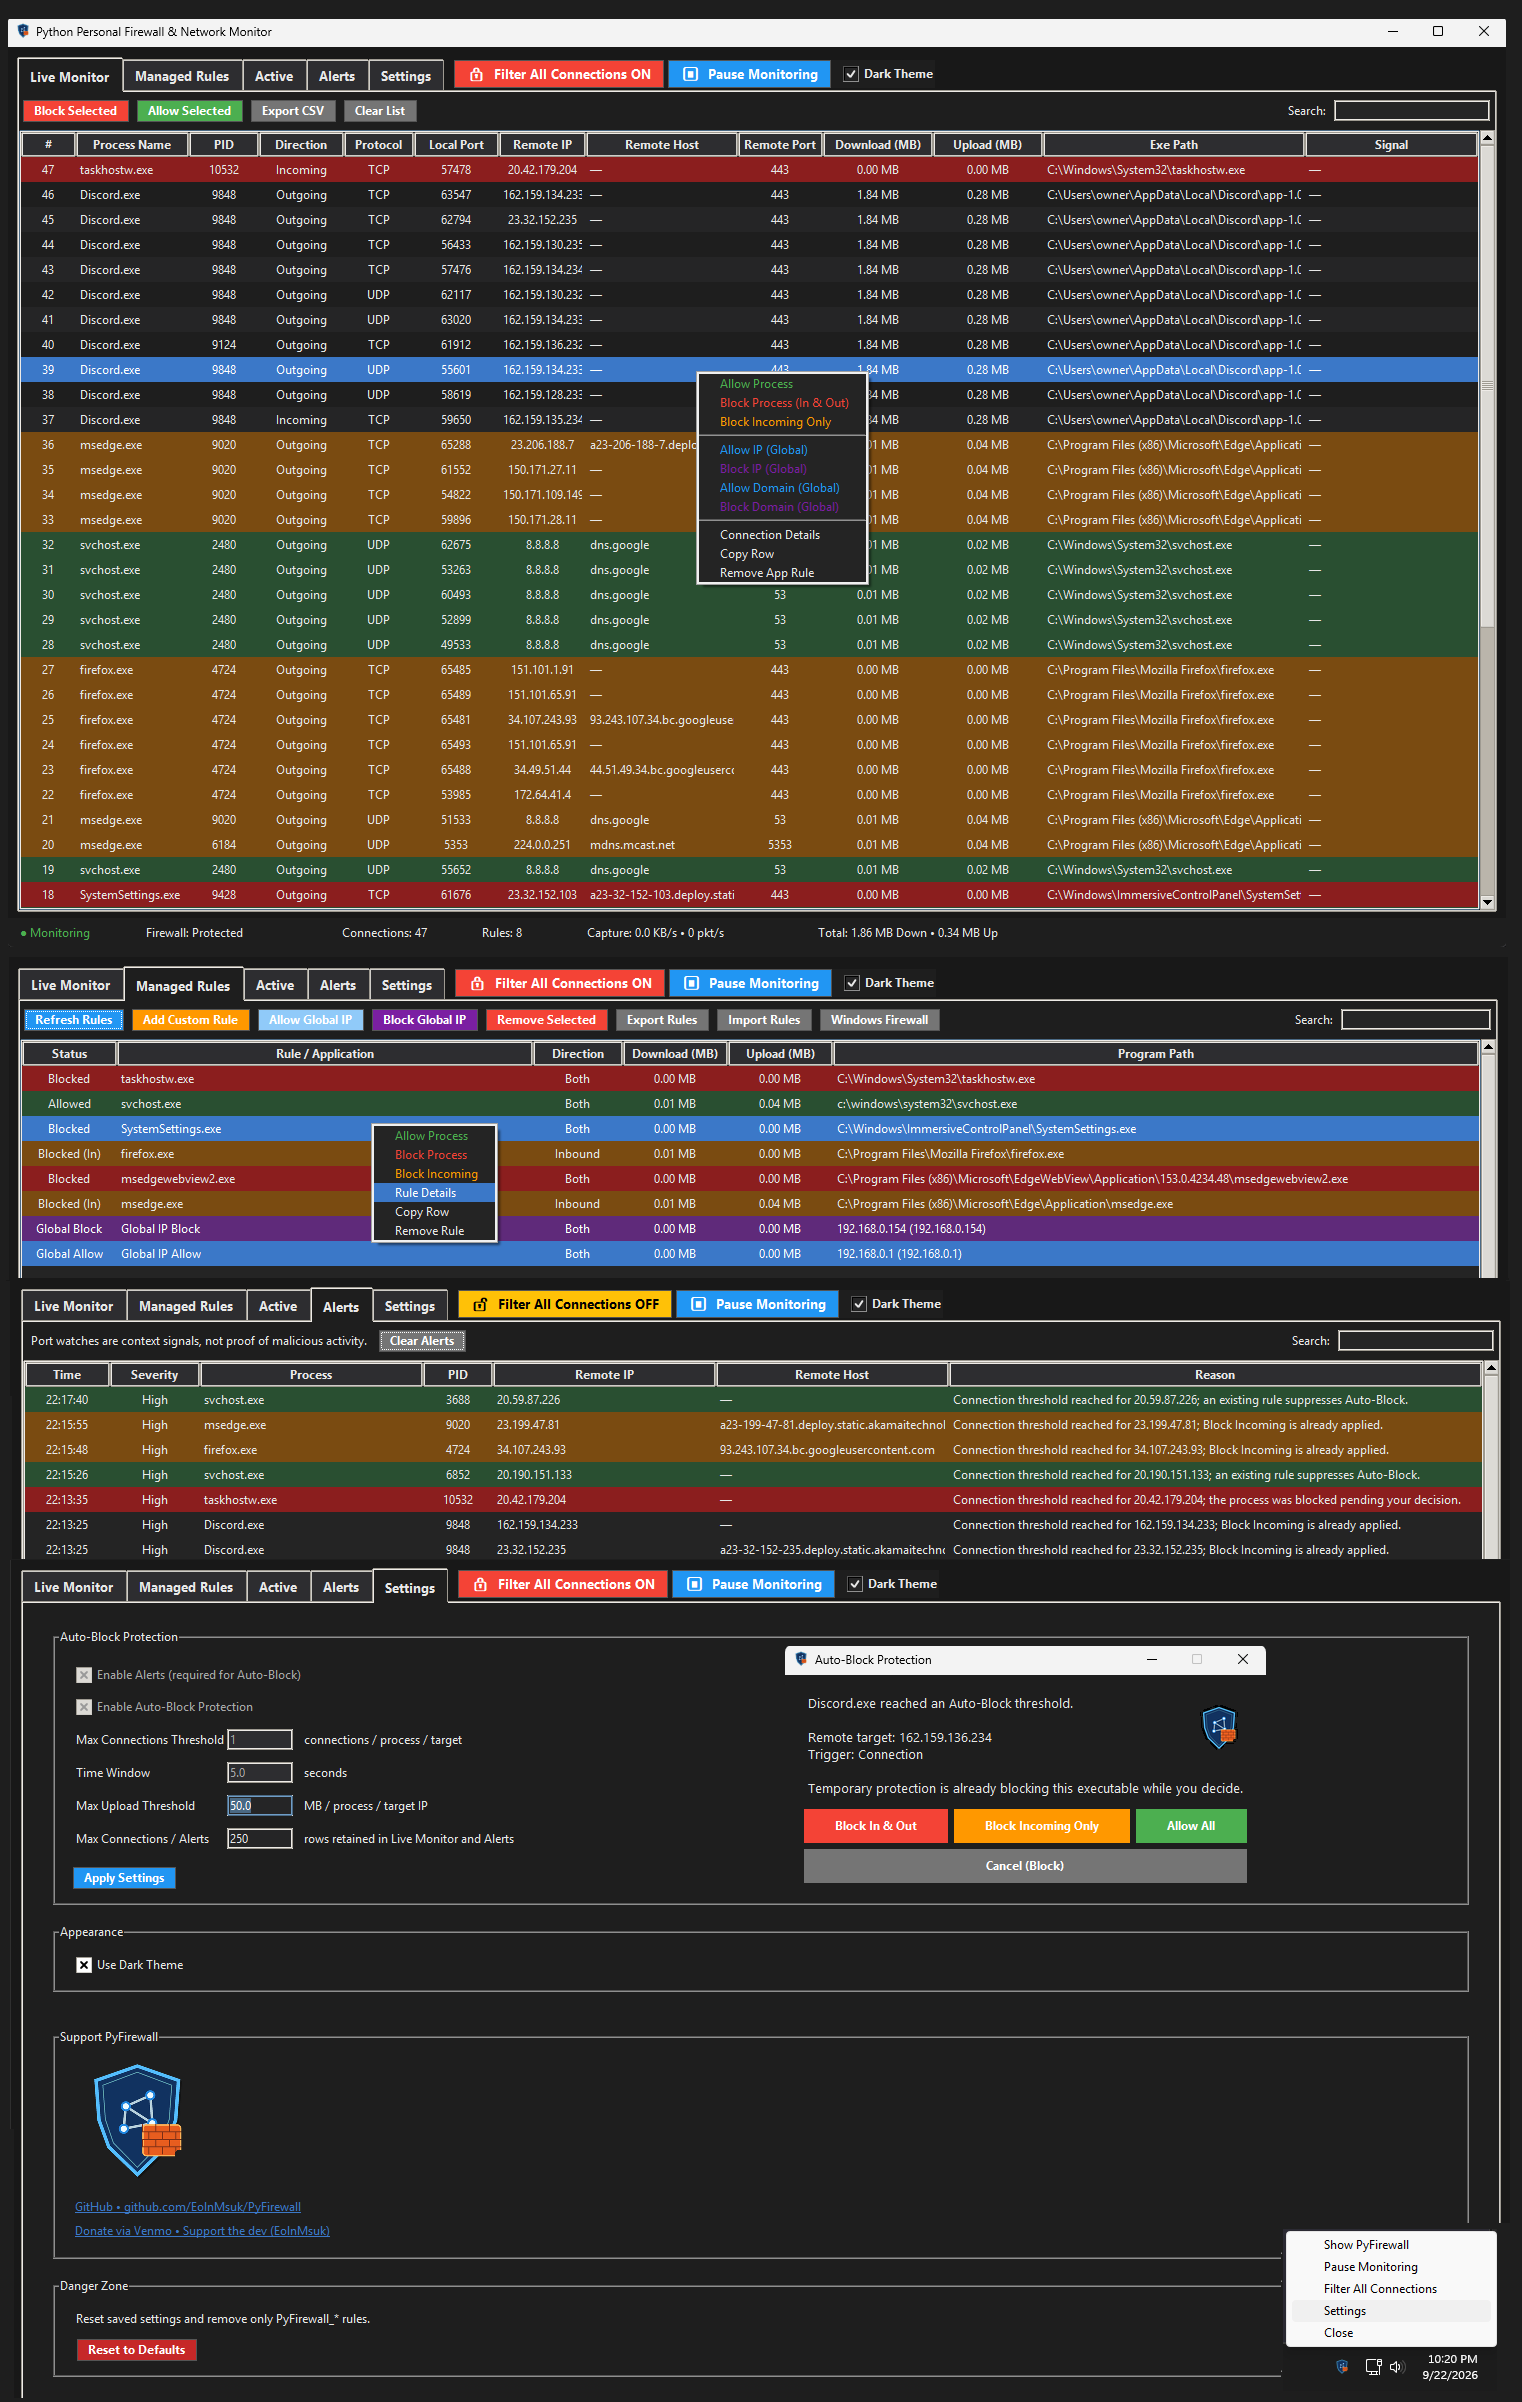
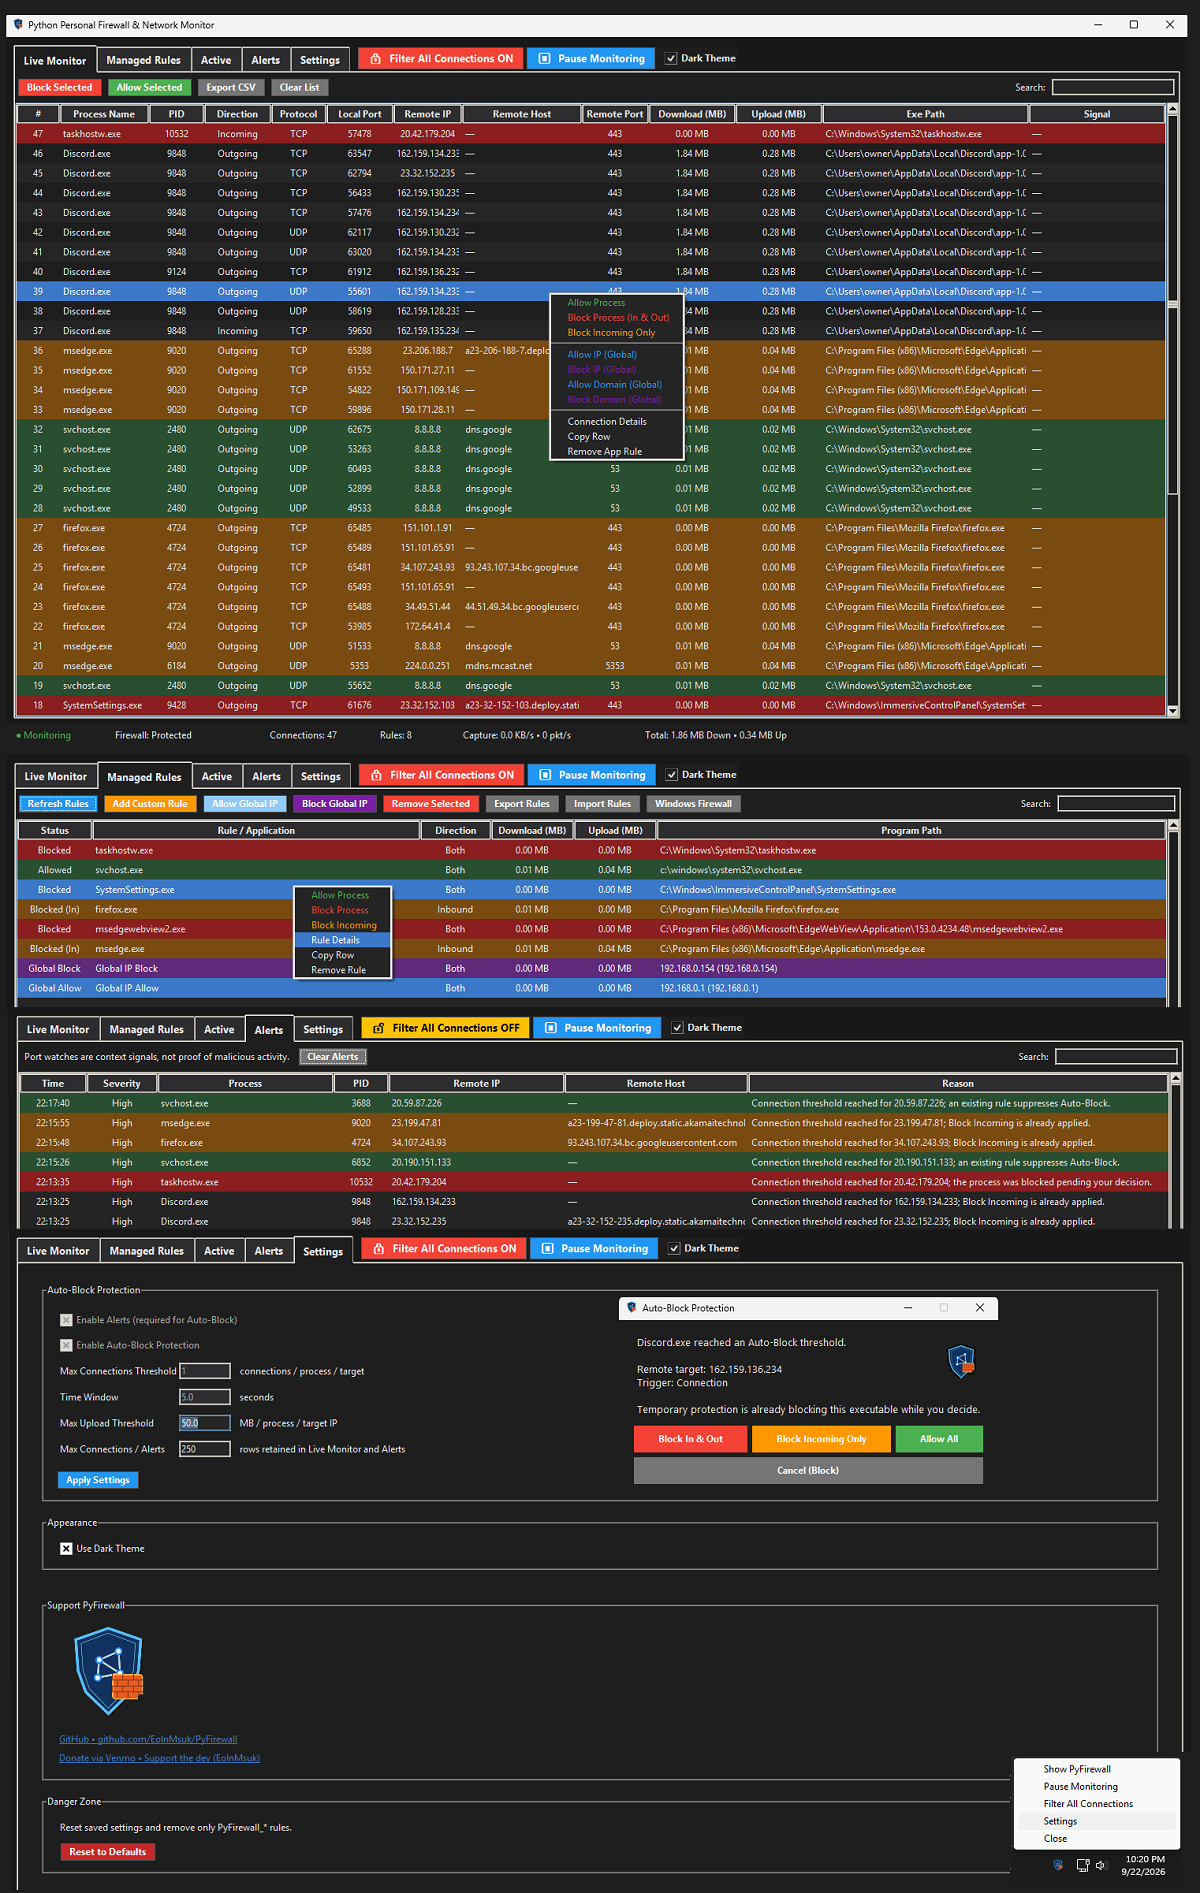
Add files via upload

diff --git a/firewall_monitor.py b/firewall_monitor.py
@@ -219,7 +219,7 @@ class PyFirewallSystemTray:
         _fields_ = [('cbSize', wintypes.DWORD), ('hWnd', wintypes.HWND), ('uID', wintypes.UINT), ('uFlags', wintypes.UINT), ('uCallbackMessage', wintypes.UINT), ('hIcon', wintypes.HICON), ('szTip', wintypes.WCHAR * 128), ('dwState', wintypes.DWORD), ('dwStateMask', wintypes.DWORD), ('szInfo', wintypes.WCHAR * 256), ('uVersion_or_Timeout', wintypes.UINT), ('szInfoTitle', wintypes.WCHAR * 64), ('dwInfoFlags', wintypes.DWORD), ('guidItem', ctypes.c_byte * 16), ('hBalloonIcon', wintypes.HICON)]
     WNDPROC = ctypes.WINFUNCTYPE(ctypes.c_ssize_t, wintypes.HWND, wintypes.UINT, wintypes.WPARAM, wintypes.LPARAM)
 
-    def __init__(self, command_queue, filter_all_enabled=False, is_paused=False):
+    def __init__(self, command_queue, filter_all_enabled=True, is_paused=False):
         self.command_queue = command_queue
         self.state_lock = threading.Lock()
         self.filter_all_enabled = bool(filter_all_enabled)
@@ -499,11 +499,11 @@ class FirewallMonitorApp:
         self._start_dns_workers()
         self.port_process_cache = {}
         self.cache_time = 0.0
-        self.filter_all_enabled = False
+        self.filter_all_enabled = True
         self.filter_all_saved_alerts = None
         self.filter_all_saved_auto_block = None
         self.saved_rate_threshold = DEFAULT_RATE_THRESHOLD
-        self.rate_threshold = DEFAULT_RATE_THRESHOLD
+        self.rate_threshold = 1 if self.filter_all_enabled else DEFAULT_RATE_THRESHOLD
         self.rate_window = DEFAULT_RATE_WINDOW
         self.upload_threshold_mb = DEFAULT_UPLOAD_THRESHOLD_MB
         self.max_connections_alerts = DEFAULT_MAX_CONNECTIONS_ALERTS
@@ -511,7 +511,7 @@ class FirewallMonitorApp:
         self.auto_block_enabled = True
         self.dark_mode = DEFAULT_DARK_MODE
         self.firewall_initialized = False
-        self.rate_threshold_var = tk.StringVar(value=str(DEFAULT_RATE_THRESHOLD))
+        self.rate_threshold_var = tk.StringVar(value=str(self.rate_threshold))
         self.rate_window_var = tk.StringVar(value=str(DEFAULT_RATE_WINDOW))
         self.upload_threshold_var = tk.StringVar(value=str(DEFAULT_UPLOAD_THRESHOLD_MB))
         self.max_connections_alerts_var = tk.StringVar(value=str(DEFAULT_MAX_CONNECTIONS_ALERTS))
@@ -546,7 +546,7 @@ class FirewallMonitorApp:
         except Exception:
             return
         with self.lock:
-            self.filter_all_enabled = bool(config.get('filter_all_enabled', False))
+            self.filter_all_enabled = bool(config.get('filter_all_enabled', True))
             self.saved_rate_threshold = max(1, int(config.get('saved_rate_threshold', config.get('rate_threshold', DEFAULT_RATE_THRESHOLD))))
             self.rate_threshold = 1 if self.filter_all_enabled else max(1, int(config.get('rate_threshold', self.saved_rate_threshold)))
             self.rate_window = max(0.1, float(config.get('rate_window', DEFAULT_RATE_WINDOW)))
@@ -714,7 +714,7 @@ class FirewallMonitorApp:
         self.setup_active_tab()
         self.setup_alerts_tab()
         self.setup_settings_tab()
-        self.filter_border = self._button(self.top_controls, 'Filter All Connections OFF', self.toggle_filter_all, '#FFC107', pack=False, font=('Segoe UI', 10, 'bold'), padx=10, pady=2, tooltip=lambda: 'Filter All Connections is locked while monitoring is paused.' if self.is_paused else 'Force the Max Connections Threshold to 1 and inspect every new connection. Filter All Connections also enables and locks Alerts + Auto-Block Protection.')
+        self.filter_border = self._button(self.top_controls, 'Filter All Connections OFF', self.toggle_filter_all, '#9E9E9E', pack=False, font=('Segoe UI', 10, 'bold'), padx=10, pady=2, tooltip=lambda: 'Filter All Connections is locked while monitoring is paused.' if self.is_paused else 'Force the Max Connections Threshold to 1 and inspect every new connection. Filter All Connections also enables and locks Alerts + Auto-Block Protection.')
         self.btn_filter = self.filter_border.winfo_children()[0]
         self.filter_border.pack(side=tk.LEFT, padx=(0, 4))
         self.pause_border = self._button(self.top_controls, '⏸  Pause Monitoring', self.toggle_pause, '#2196F3', pack=False, font=('Segoe UI', 10, 'bold'), padx=10, pady=2, tooltip=lambda: 'Resume live packet capture and monitoring' if self.is_paused else 'Pause live packet capture and monitoring')
@@ -760,20 +760,28 @@ class FirewallMonitorApp:
         if getattr(button, '_pyfirewall_hover_bound', False):
             return button
         button._pyfirewall_hover_bound = True
-        if border is not None:
-            border._button_border_normal_bg = border.cget('bg')
+
+        def set_normal_state(bg=None, activebackground=None):
+            try:
+                if bg is not None:
+                    button._pyfirewall_base_bg = bg
+                if activebackground is not None:
+                    button._pyfirewall_base_active_bg = activebackground
+                else:
+                    button._pyfirewall_base_active_bg = getattr(button, '_pyfirewall_base_bg', button.cget('bg'))
+                if border is not None:
+                    border._pyfirewall_base_bg = getattr(button, '_pyfirewall_base_bg', border.cget('bg'))
+            except tk.TclError:
+                pass
+
+        set_normal_state(button.cget('bg'), button.cget('activebackground'))
 
         def enter(_event=None):
             try:
                 if str(button.cget('state')) == str(tk.DISABLED):
                     button.configure(cursor='arrow')
                     return
-                normal_bg = button.cget('bg')
-                normal_border = border.cget('bg') if border is not None else None
-                button._pyfirewall_hover_normal_bg = normal_bg
-                button._pyfirewall_hover_normal_active_bg = button.cget('activebackground')
-                if border is not None:
-                    border._pyfirewall_hover_normal_bg = normal_border
+                normal_bg = getattr(button, '_pyfirewall_base_bg', button.cget('bg'))
                 hover = cls._hover_color(normal_bg)
                 button.configure(bg=hover, activebackground=hover, cursor='hand2')
                 if border is not None:
@@ -783,21 +791,39 @@ class FirewallMonitorApp:
 
         def leave(_event=None):
             try:
-                normal_bg = getattr(button, '_pyfirewall_hover_normal_bg', button.cget('bg'))
-                normal_active_bg = getattr(button, '_pyfirewall_hover_normal_active_bg', normal_bg)
+                normal_bg = getattr(button, '_pyfirewall_base_bg', button.cget('bg'))
+                normal_active_bg = getattr(button, '_pyfirewall_base_active_bg', normal_bg)
                 button.configure(bg=normal_bg, activebackground=normal_active_bg, cursor='')
                 if border is not None:
-                    border.configure(bg=getattr(border, '_pyfirewall_hover_normal_bg', getattr(border, '_button_border_normal_bg', border.cget('bg'))))
+                    border.configure(bg=normal_bg)
             except tk.TclError:
                 pass
 
         button.bind('<Enter>', enter, add='+')
         button.bind('<Leave>', leave, add='+')
+        button._pyfirewall_set_normal_state = set_normal_state
         return button
+
+    def _set_button_colors(self, button, border, color, fg='white', state=tk.NORMAL):
+        if button is None:
+            return
+        try:
+            button.configure(bg=color, activebackground=color, fg=fg, activeforeground=fg, state=state)
+            setter = getattr(button, '_pyfirewall_set_normal_state', None)
+            if callable(setter):
+                setter(color, color)
+            else:
+                button._pyfirewall_base_bg = color
+                button._pyfirewall_base_active_bg = color
+            if border is not None:
+                border.configure(bg=color)
+                border._pyfirewall_base_bg = color
+        except tk.TclError:
+            pass
 
     def _button(self, parent, text, command, color=None, pack=True, tooltip=None, **options):
         color = color or '#757575'
-        border = tk.Frame(parent, bg='#555555', bd=0, highlightthickness=0)
+        border = tk.Frame(parent, bg=color, bd=0, highlightthickness=0)
         border._button_border_frame = True
         settings = {'text': text, 'command': command, 'bg': color, 'fg': 'white', 'activebackground': color, 'activeforeground': 'white', 'relief': 'flat', 'borderwidth': 0, 'highlightthickness': 0, 'font': ('Segoe UI', 9, 'bold'), 'padx': 9}
         settings.update(options)
@@ -1485,9 +1511,10 @@ class FirewallMonitorApp:
         elif self.filter_all_enabled:
             text, color, state, fg = ('🔒  Filter All Connections ON', '#f44336', tk.NORMAL, '#ffffff')
         else:
-            text, color, state, fg = ('🔓  Filter All Connections OFF', '#FFC107', tk.NORMAL, '#000000')
+            text, color, state, fg = ('🔓  Filter All Connections OFF', '#9E9E9E', tk.NORMAL, '#ffffff')
         if hasattr(self, 'btn_filter'):
-            self.btn_filter.config(text=text, bg=color, activebackground=color, fg=fg, activeforeground=fg, state=state)
+            self._set_button_colors(self.btn_filter, getattr(self, 'filter_border', None), color, fg, state)
+            self.btn_filter.configure(text=text)
         if self.tray is not None:
             self.tray.update_state(filter_all_enabled=self.filter_all_enabled, is_paused=self.is_paused)
         self._update_threshold_entries()
@@ -1535,7 +1562,11 @@ class FirewallMonitorApp:
         with self.lock:
             self.is_paused = not self.is_paused
             paused = self.is_paused
-        self.btn_pause.config(text='▶  Resume Monitoring' if paused else '⏸  Pause Monitoring', bg='#4CAF50' if paused else '#2196F3')
+        pause_text = '▶  Resume Monitoring' if paused else '⏸  Pause Monitoring'
+        pause_color = '#9E9E9E' if paused else '#2196F3'
+        if hasattr(self, 'btn_pause'):
+            self._set_button_colors(self.btn_pause, getattr(self, 'pause_border', None), pause_color, '#ffffff', tk.NORMAL)
+            self.btn_pause.configure(text=pause_text)
         self.update_auto_block_controls()
         self.update_filter_ui()
         if paused:
@@ -1697,12 +1728,12 @@ class FirewallMonitorApp:
                 records = self.get_firewall_rules()
                 self.delete_rule_names((r['name'] for r in records))
             with self.lock:
-                self.filter_all_enabled = False
+                self.filter_all_enabled = True
                 self.is_paused = False
                 self.filter_all_saved_alerts = None
                 self.filter_all_saved_auto_block = None
                 self.saved_rate_threshold = DEFAULT_RATE_THRESHOLD
-                self.rate_threshold = DEFAULT_RATE_THRESHOLD
+                self.rate_threshold = 1 if self.filter_all_enabled else DEFAULT_RATE_THRESHOLD
                 self.rate_window = DEFAULT_RATE_WINDOW
                 self.upload_threshold_mb = DEFAULT_UPLOAD_THRESHOLD_MB
                 self.max_connections_alerts = DEFAULT_MAX_CONNECTIONS_ALERTS
@@ -1726,7 +1757,7 @@ class FirewallMonitorApp:
                 tree = getattr(self, tree_name, None)
                 if tree is not None:
                     tree['displaycolumns'] = tuple(self.column_orders[order_key])
-            self.rate_threshold_var.set(str(DEFAULT_RATE_THRESHOLD))
+            self.rate_threshold_var.set(str(self.rate_threshold))
             self.rate_window_var.set(str(DEFAULT_RATE_WINDOW))
             self.upload_threshold_var.set(str(DEFAULT_UPLOAD_THRESHOLD_MB))
             self.max_connections_alerts_var.set(str(DEFAULT_MAX_CONNECTIONS_ALERTS))
@@ -1734,7 +1765,8 @@ class FirewallMonitorApp:
             self.auto_block_var.set(True)
             self.clear_alerts()
             self.clear_list()
-            self.btn_pause.config(text='⏸  Pause Monitoring', bg='#2196F3', activebackground='#2196F3')
+            self._set_button_colors(self.btn_pause, getattr(self, 'pause_border', None), '#2196F3', '#ffffff', tk.NORMAL)
+            self.btn_pause.config(text='⏸  Pause Monitoring')
             self.update_auto_block_controls()
             self.update_filter_ui()
             if self.startup_complete:
